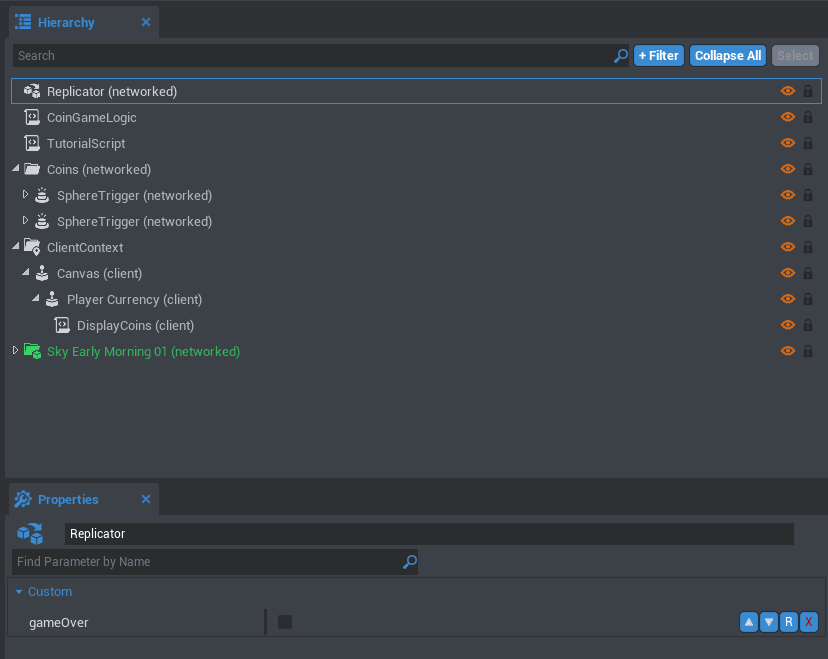
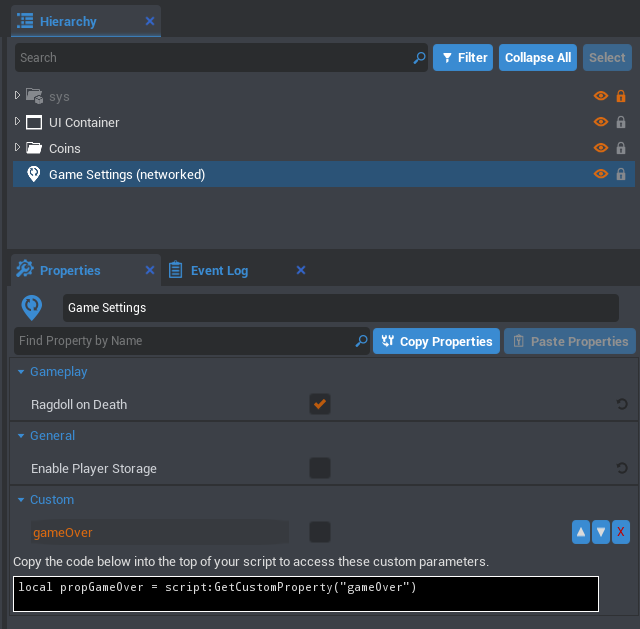
finish basic tutorial update
Tutorial can now be completed from start to finish and I've fixed all deprecations and issues (there were more than I thought--this still talked about Replicators). There still need to be more image updates, and a more thorough code explanation at the end as we're inconsistent at the end. (Being that this end just gives the code without telling what it does like earlier)

Changed region(s): [[0.0, 0.0, 1.0, 0.6041], [0.0, 0.725, 1.0, 0.9968], [0.0312, 0.6343, 0.1875, 0.6948]]

diff --git a/src/tutorials/gameplay/lua_basics_manticoin.md b/src/tutorials/gameplay/lua_basics_manticoin.md
@@ -150,7 +150,7 @@ Create a new script and call it `DisplayCoins`. We'll start with the following c
 -- Print out 'Player name: {coin count}' every 2 seconds
 function Tick()
     Task.Wait(2)
-    local players = World.GetPlayers()
+    local players = Game.GetPlayers()
     local numPlayers = #players
     for i = 1, numPlayers do
         local numCoins = players[i]:GetResource("Manticoin")
@@ -159,25 +159,27 @@ function Tick()
 end
 ```
 
+Don't forget to drag your script into the Hierarchy--then press play to check it out!
+
 Now when you walk over the coin, you'll pick it up, and the amount will be displayed every 2 seconds. The `for` loop will show the score of each `Player`, since CORE comes equipped with multiplayer functionality right out of the box.
 
 Next up, we're going to add a UI element to display this information instead of the bland `UI.PrintToScreen` call we have now.
 
 ## Using UI Objects
 
-UI Objects are 2D elements that can be used to show Heads Up Displays (HUD), buttons, and messages to the player. We can leverage these instead of `UI.PrintToScreen` to have more control over what the user sees.
+UI Objects are 2D elements that can be used to show the Heads Up Displays (often abbreviated to HUD), which are buttons, images, and messages to the player. We can leverage these instead of `UI.PrintToScreen` to have more control over what the user sees.
 
 ### Creating UI Text
 
-1. Let's play around and make our game more attractive! In order to use UI elements, we need a UI Container.
+1. Let's play around and make our game more attractive! In order to use UI elements, we need a *UI Container*.
    * Go to **CORE Content -> UI Elements** and drag the **UI Container** object in to the hierarchy.
-   * Right click on it in the Hierarchy, hover over **Create Network Context** and create a **Client Context**.
-   * From **CORE Content -> UI Elements** pick the **UI Text** element and drag it onto **Client Context** in the hierarchy, this will make it a child of it.
+   * Right click on this UI Container in the Hierarchy, hover over **Create Network Context** and create a **Client Context**. This creates a Client Context folder as a child of the UI Container.
+   * From **CORE Content -> UI Elements** pick the **UI Text Box** element and drag it onto **Client Context** in the hierarchy, this will make it a child of it.
    * Rename the Text Control to `CoinUI`.
-   * In the properties panel, set `Text` to be blank by default.
+   * In the properties panel, set `Text` to be blank by default by deleting the existing text that is already there.
 
 !!! info
-    While visually similar in the Hierarchy, **Client Context** is different from a folder - the easiest way to think about it is that its contents will be unique to each player's client. In other words, the server doesn't care about it.
+    While visually similar in the Hierarchy, **Client Context** is different from a folder - the easiest way to think about it is that its contents will be unique to each player's client (or computer). In other words, the server doesn't care about it.
 
 ### Updating UI Text
 
@@ -187,7 +189,7 @@ Now we are going back to our `DisplayCoins` script and replace the code with the
 -- Display the player's coin amount
 
 Task.Wait()  -- Wait a tick for players to connect
-local player = World.GetLocalPlayer()
+local player = Game.GetLocalPlayer()
 
 -- Every 0.1 seconds update the coin count display
 function Tick()
@@ -198,17 +200,22 @@ function Tick()
 end
 ```
 
-!!! note
+!!! info
     Calling `Task.Wait()` without sending in an argument will default to `1`, a single tick. It supports float arguments and yields the Task for that many seconds.
-    Note: For performance we'd ideally write code that only updates the UI when the coin count changes, but this example favors simple code over robust systems
+    Note: For better performance we'd ideally write code that *only* updates the UI when the coin count changes, but this example favors using simple code over robust systems.
 
-Next, let's place the script `DisplayCoins` as a child of the Text Control. In this script, we set a variable `score` to the player's amount of Manticoin currency every 0.1 seconds. With `script.parent.text`, we access the text from the parent Text Control. Lastly, we overwrite the text appropriately with the player's name and score.
+Next, let's place the script `DisplayCoins` as a child of the Text Box. In this script, we set a variable `score` to the player's amount of Manticoin currency every 0.1 seconds. With `script.parent.text`, we access the text from the parent Text Control. Lastly, we overwrite the text appropriately with the player's name and score.
 
 The folder structure at this point should look like this:
 
 ![UIText](../../img/getting_started/UIText.png "UI Text"){: .center}
 
-Feel free to play around and customize how the Text Control looks. Using UI is a fantastic way to give your game a unique and professional feel. For more information about UI, [here](ui_reference.md) is a cool reference to check out.
+Your Text Box probably came with another UI Container, but as this is already a child of a UI Container, we don't need both. Drag the CoinUI one level higher to just be a child of the Client Context folder. Then you can delete the extra UI Container.
+
+!!! tip
+    All UI Elements come with a UI Container automatically to help you use them more immediately.
+
+Feel free to play around and customize how the Text Control looks and where it is displayed on the screen. Using UI is a fantastic way to give your game a unique and professional feel. For more information about UI, [here](ui_reference.md) is a cool reference to check out.
 
 Now let's make a simple map and populate it with coins.
 
@@ -216,11 +223,18 @@ Now let's make a simple map and populate it with coins.
 
 So far, we've worked on Objects, Triggers, and UI. Let's switch gears and spice up our map a bit!
 
-* Create the player's spawn point
-    * In the **CORE Content** tab, select **Gameplay Objects** and drag a **Spawn Point** into the world.
-    * Remember you can toggle gizmo visibility by pressing <kbd>V</kbd>.
+* Move the player's spawn point
+    * When you create a new project, you will have these objects in your Hierarchy by default:
 
-Alright, beautiful!
+    ![The Default Hierarchy](../../img/getting_started/defaultHierarchy.png "This is what a blank project starts with."){: .center}
+
+    * This is everything you that see in the viewport. The sky, floor, and the basics for a game: a camera, the spawn point, and the player's settings.
+
+    * Move the spawn point object around wherever you'd like in the world.
+
+    * If you can't see the spawn point, remember you can toggle gizmo visibility by pressing <kbd>V</kbd>.
+
+Alright, awesome!
 
 ## Win State
 
@@ -240,12 +254,12 @@ Now we will write a script to make the game round-based.
 
 Here we go! Create a script called `CoinGameLogic`.
 
-Let's also add a `Gameplay Settings` object to our hierarchy from **CORE Content -> Settings Objects**. We will use it to hold our game state info. To let us communicate between the server and client, we will have to set it as "**networked**" via the right click settings menu as well.
+Let's also add a `Game Settings` object to our hierarchy from **CORE Content -> Settings Objects**. We will use it to hold our game state info. To let us communicate between the server and client, we will have to set it as "**networked**" via the right click settings menu as well.
 
 Next, we need to create the custom parameter to save our game state.
 
-* Create a parameter for `Gameplay Settings`
-    * Select the `Gameplay Settings` object in the hierarchy.
+* To create a parameter for `Game Settings`:
+    * Select the `Game Settings` object in the hierarchy.
     * Click the "**Add Custom Property**" button and select `Boolean` as the type, now put in `gameOver` as the name.
     * Right click the property and click "**Enable Property networking**".
 
@@ -253,7 +267,7 @@ Here's the entire Hierarchy at this point:
 
 ![GameLogicHierarchy](../../img/getting_started/GameLogicHierarchy.png "GameLogic Hierarchy"){: .center}
 
-Let's make a script for game logic, create a new one called `CoinGameLogic` and add the following code:
+Let's open up that script we created called `CoinGameLogic` and add the following code:
 
 ```lua
 -- Get the folder containing all the coin objects
@@ -264,51 +278,58 @@ function Tick()
     Task.Wait(1)
     local coinsLeft = #coinFolder:GetChildren()
     if coinsLeft == 0 then
-     World.FindObjectByName("Gameplay Settings"):SetNetworkedCustomProperty("gameOver", true)
+        World.FindObjectByName("Gameplay Settings"):SetNetworkedCustomProperty("gameOver", true)
     end
 end
 ```
 
-`World.FindObjectByName()` searches the Hierarchy for the object with the name passed in. The first time we use it to find `coinFolder`. We then look at how many coins are left by seeing how full the folder of coins in the hierarchy is (`:GetChildren()` returns the child elements, and `#` checks the length of the array, which is the number of objects the folder contains). Make sure to add the `CoinGameLogic` script to the top of the hierarchy.
+Make sure it's in your project Hierarchy, and check it out!
 
-When there are zero coins left, we find the Gameplay Settings and set the value of `gameOver` to `true`. This way, all the players' clients will be able to know when the game is finished!
+`World.FindObjectByName()` searches the Hierarchy for the object with the name passed in. The first time we use it to find `coinFolder`. We then look at how many coins are left by seeing how full the folder of coins in the hierarchy is (`:GetChildren()` returns the child elements, and `#` checks the length of the array, which is the number of objects the folder contains). Make sure to add the `CoinGameLogic` script to your project Hierarchy.
+
+When there are zero coins left, we find the Gameplay Settings and set the value of `gameOver` to `true`. This way, all the players' clients will be able to know when the game is finished.
+
+So far, nothing actually happens--but that's next!
 
 ### Victory UI
 
-We are going to update the game when all the possible coins are picked up. First, we'll need a new `Text Control` which we'll name `VictoryUI` which will only show up when the game is over, alerting the players that all coins have been collected. After designing the victory UI, we'll want to hide it until it's the appropriate time.
+We are going to update the game when all the possible coins are picked up. First, we'll need a new `UI Text Box` which we'll name `VictoryUI` which will only show up when the game is over, alerting the players that all coins have been collected. After designing the victory UI, we'll want to hide it until it's the appropriate time.
 
-* Create a **Text Control** named `VictoryUI` as a child of `UI Container` under `Client Context`.
+* Create a **UI Text Box** named `VictoryUI` as a child of the `UI Container` we made earlier under `Client Context`.
+
+    !!! tip
+        You could duplicate the `CoinUI` from earlier. With `CoinUI` selected in your Hierarchy, press <kbd>CTRL</kbd> + <kbd>W</kbd> to duplicate it. You'll want to delete the extra DisplayCoins script that will be a child of your new clone.
+
 * In the `text` field in the Properties window, type "**All coins found!**".
-* Toggle the visibility of the Victory UI under **Properties -> Scene -> Visible**.
-* Customize your font color, size, and justification!
+* Customize your font color, size, and justification--do what you like with it!
+* Once you're satisfied, change the visibility of the Victory UI under **Properties -> Scene -> Visibility** to *Force Off*.
 
 Now, let's make a script called `DisplayUI` that makes the victory UI visible at the end of the game! We will parent this script underneath `VictoryUI`.
 
-Next, we have to hook up our UI to the Gameplay Settings that knows if the game is over or not.
+Next, we have to hook up our UI to the Game Settings that knows if the game is over or not.
 
-* Select our `DisplayUI` text control in the hierarchy.
-* Click on "**Add Custom Property**" and select `CoreObject Reference` as a type and put in `Gameplay Settings` for the name.
-* Drag your `Gameplay Settings` from the hierarchy into the `Custom Property` input field that's currently displaying "**Missing Object**".
+* Select our `DisplayUI` script in the hierarchy.
+* With that still selected, drag your `Game Settings` from the hierarchy to the Properties window of the `DisplayUI` script. This will automatically add a reference to the Game Settings object as a custom property on the `DisplayUI` script!
 
 After that is done, open up the `DisplayUI` script and add the following:
 
 ```lua
 local ui = script.parent
-local settings = script:GetCustomProperty("Gameplay Settings"):WaitForObject()
+local settings = script:GetCustomProperty("GameSettings"):WaitForObject()
 
 local function OnChanged(settings, key)
- gameOver = settings:GetCustomProperty("gameOver")
+    gameOver = settings:GetCustomProperty("gameOver")
     if gameOver == true then
-     ui.visibility = Visibility.INHERIT
+        ui.visibility = Visibility.INHERIT
     else
-     ui.visibility = Visibility.FORCE_OFF
+        ui.visibility = Visibility.FORCE_OFF
     end
 end
 
 settings.networkedPropertyChangedEvent:Connect(OnChanged)
 ```
 
-This will toggle the visibility property of `VictoryUI` based on the current state of the game, determined by our `Gameplay Settings`.
+This will toggle the visibility property of `VictoryUI` based on the current state of the game, determined by our `Game Settings`.
 
 ![VictoryUI](../../img/getting_started/Replicator.png "VictoryUI"){: .center}
 
@@ -328,24 +349,24 @@ An easier solution would be to just hide the coins from the map when they are pi
 
 Open up the `PickupCoin` script and change the line `trigger:Destroy()` to `trigger.isEnabled = false`. This will make it so that when we collide, instead of destroying the `Manticoin`, it disables it. Disabling an object makes it basically not present in the scene. The two biggest things for us is that it disables the collision and visibility, so players won't be able to collide with it or see it after it's been collected.
 
-Next, create a new UI element to display information when the round resets. We'll call it `RoundUI` and make it a sibling to `CoinUI`, by also setting it as a child of your `Client Context`. Like `CoinUI`, we'll set the `Text` property to be blank by default.
+Next, create a new UI Text Box element to display information when the round resets. We'll call it `RoundUI` and make it a sibling to `CoinUI`, by also setting it as a child of your `Client Context`. Like `CoinUI`, we'll set the `Text` property to be blank by default.
 
 The last step is to add the resetting logic to our main `CoinGameLogic` script. For us, resetting the map means looping through all the coins and setting their `.isEnabled` property to be true. The logic will be quite similar to getting the coin count. Place the following code below the `Tick()` function:
 
 ```lua
 function ResetMap()
     -- Set all coins to be enabled
- for _, coin in pairs(coinFolder:GetChildren()) do
-  if coin ~= nil then
-   coin.isEnabled = true
-  end
- end
+    for _, coin in pairs(coinFolder:GetChildren()) do
+        if coin ~= nil then
+            coin.isEnabled = true
+        end
+    end
 
-  -- Reset rources for every player
-  local players = World.GetPlayers()
-  for _, player in pairs(players) do
-    player:SetResource("Manticoin", 0)
-  end
+    -- Reset rources for every player
+    local players = Game.GetPlayers()
+    for _, player in pairs(players) do
+        player:SetResource("Manticoin", 0)
+    end
 end
 ```
 
@@ -382,16 +403,20 @@ function Tick()
     Task.Wait(1)
     local coinsLeft = GetCoinsLeft()
     if coinsLeft == 0 then
-        World.FindObjectByName("Gameplay Settings"):SetNetworkedCustomProperty("gameOver", true)
+        World.FindObjectByName("Game Settings"):SetNetworkedCustomProperty("gameOver", true)
         for i = 3, 0, -1 do
             Task.Wait(1)
-            UI.PrintToScreen("New round in "..tostring(i).." seconds")
+            roundUI = World.FindObjectByName("RoundUI")
+            roundUI.text = "New round in "..tostring(i).." seconds"
         end
-        World.FindObjectByName("Gameplay Settings"):SetNetworkedCustomProperty("gameOver", false)
+        World.FindObjectByName("Game Settings"):SetNetworkedCustomProperty("gameOver", false)
+        roundUI.text = ""
         ResetMap()
     end
 end
 ```
+
+pls explain this code sierra pls
 
 ## Summary
 
